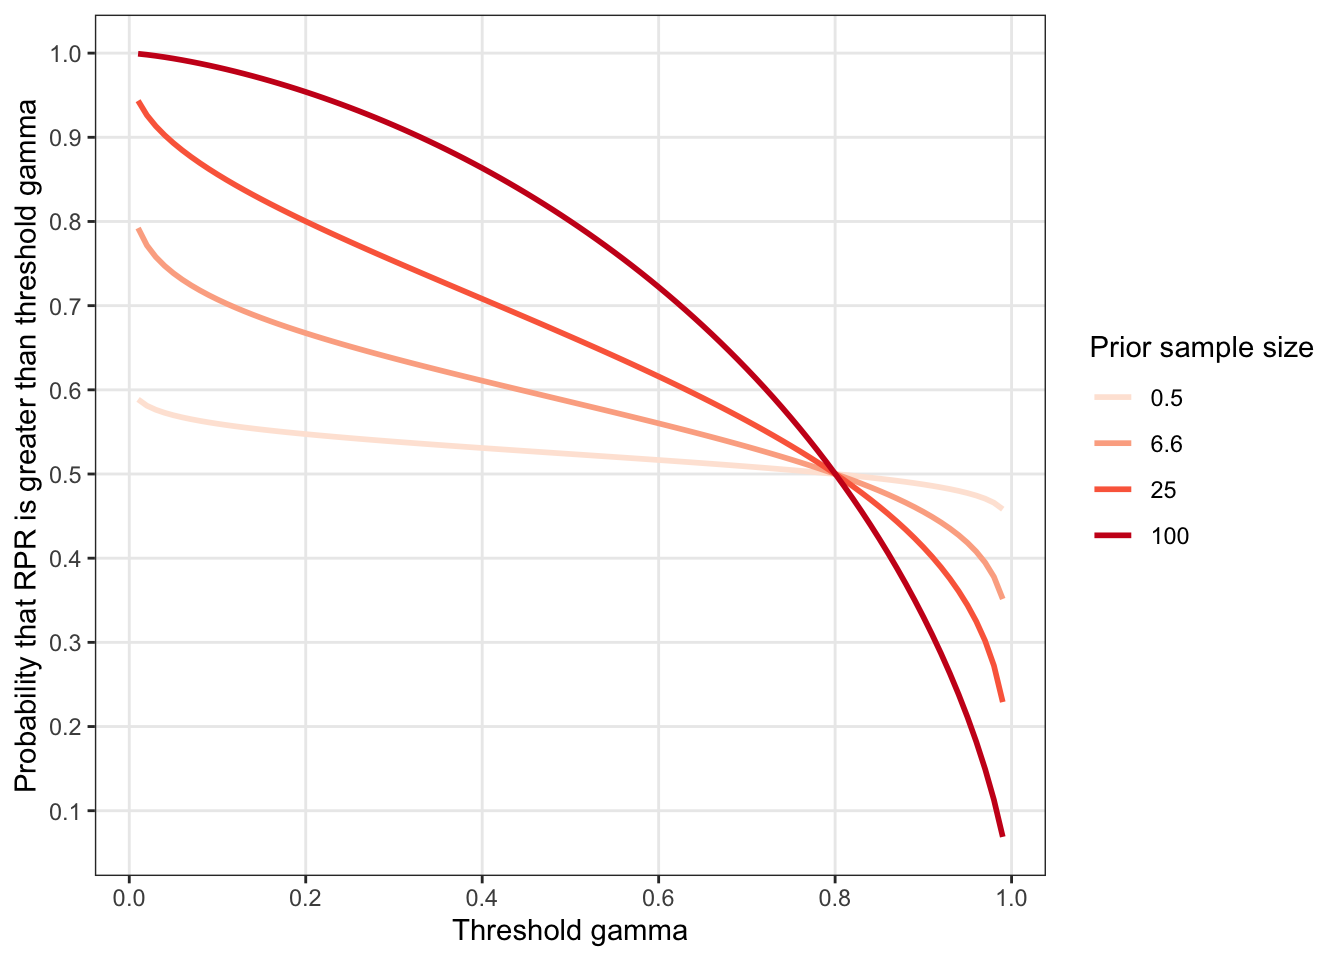
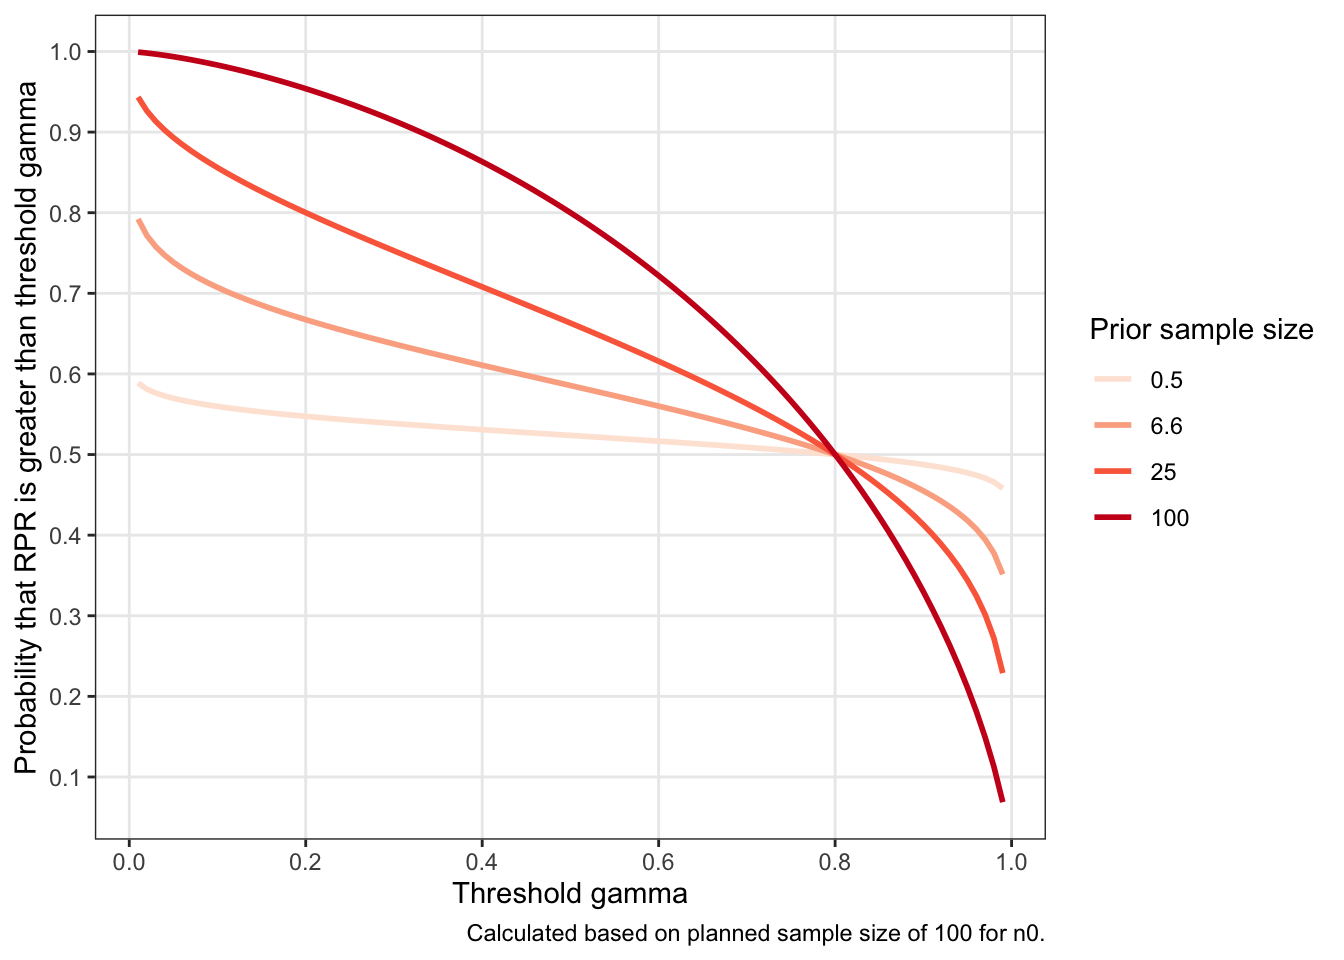
Changes

diff --git a/docs/two-arm-non-inferiority-setting.html b/docs/two-arm-non-inferiority-setting.html
@@ -407,7 +407,7 @@ see <span class="citation">[<a href="#ref-Rufibach2016" role="doc-biblioref">6</
 <p>From the above formula one can derive probability statements as <span class="math inline">\(P(RPR&gt;\gamma)\)</span>, from</p>
 <p><span class="math display">\[
 \begin{aligned}
-P(RPR&gt;\gamma)&amp;=\Phi\left(-z_{1-\alpha}\frac{\sqrt{mn_0\sigma_1^2+mn_1\sigma_0^2}}{\sqrt{n_1n_0(\sigma_1^2+\sigma_2^2)}}-\sqrt{\frac{m}{\sigma_1^2+\sigma_2^2}}(d-\delta^*)-\frac{\sqrt{mn_0\sigma_1^2+mn_1\sigma_0^2}}{\sqrt{n_1n_0(\sigma_1^2+\sigma_2^2)}}\Phi^{-1}(y) \right),
+P(RPR&gt;\gamma)=\Phi&amp;\left(-z_{1-\alpha}\sqrt{\frac{m(n_0\sigma_1^2+n_1\sigma_0^2)}{\sqrt{n_1n_0(\sigma_1^2+\sigma_2^2)}}}-\sqrt{\frac{m}{\sigma_1^2+\sigma_2^2}}(d-\delta^*)-\sqrt{\frac{m(n_0\sigma_1^2+n_1\sigma_0^2)}{\sqrt{n_1n_0(\sigma_1^2+\sigma_2^2)}}}\Phi^{-1}(y) \right),
 \end{aligned}
 \]</span></p>
 <p><img src="_main_files/figure-html/unnamed-chunk-7-1.png" width="672" /></p>
